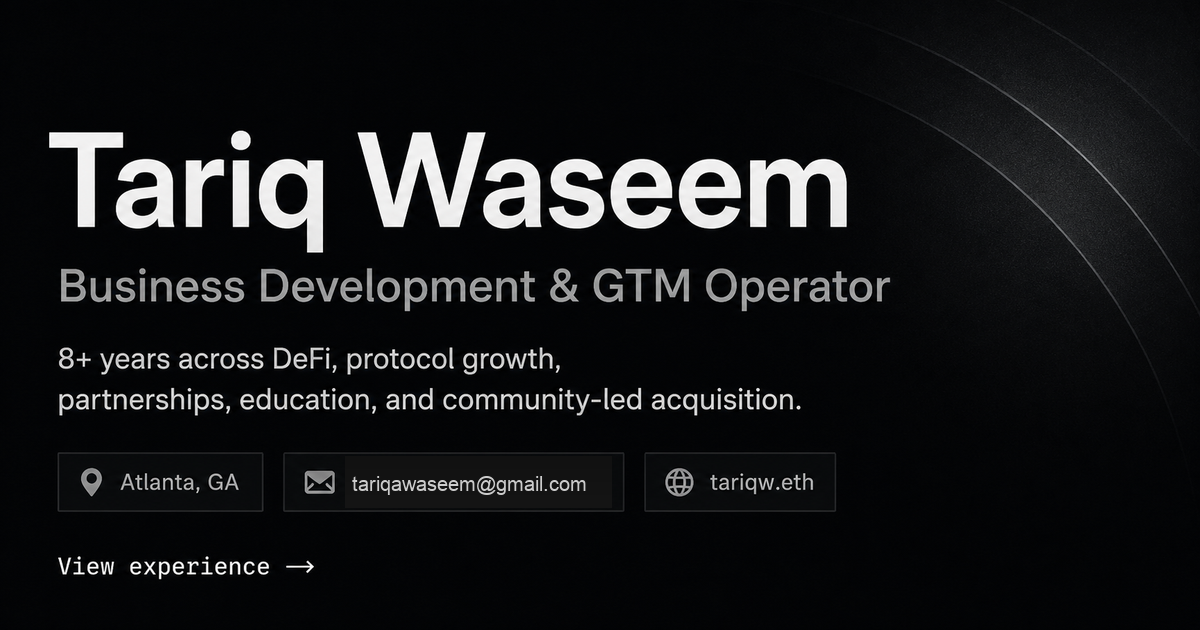
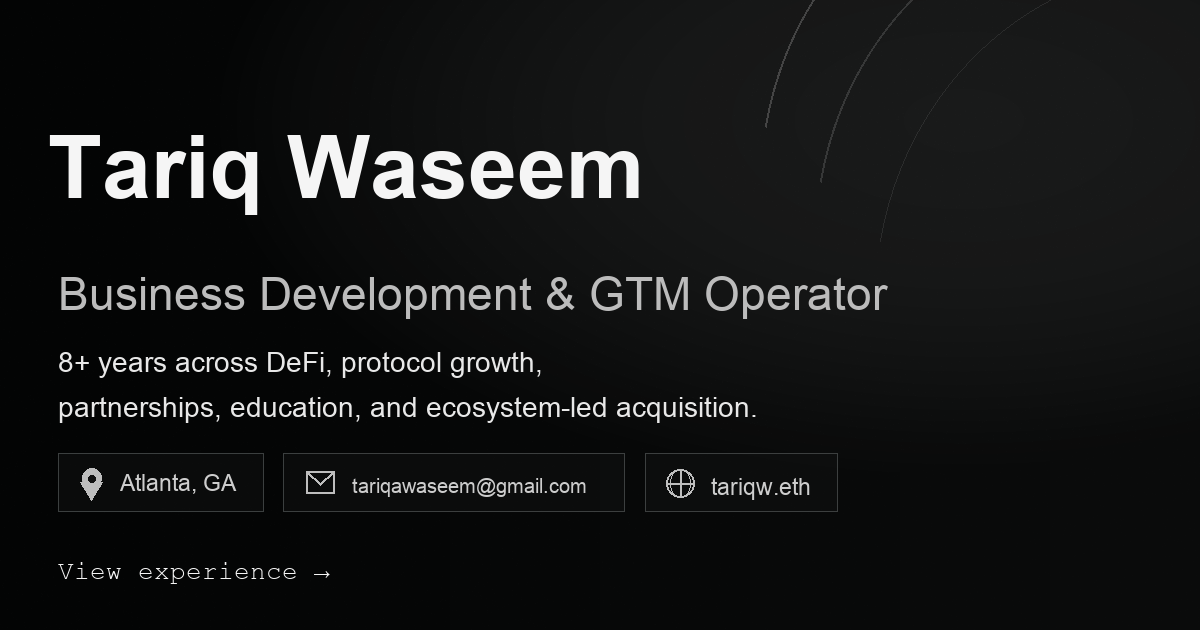
Refine ecosystem positioning copy

diff --git a/src/main.tsx b/src/main.tsx
@@ -25,7 +25,7 @@ const experience = [
     bullets: [
       'Run a personal digital asset fund focused on Bitcoin, financial NFT technology, memecoins, and liquid crypto opportunities across multiple market cycles.',
       'Generated $100K+ in realized and unrealized gains using my own capital over nine years of active research, allocation, and risk management.',
-      'Built an investing track record around early narrative discovery, onchain behavior, liquidity cycles, and community-led asset formation.',
+      'Built an investing track record around early narrative discovery, onchain behavior, liquidity cycles, and ecosystem-led asset formation.',
     ],
   },
   {
@@ -36,7 +36,7 @@ const experience = [
     bullets: [
       'Advise on GTM, token access design, and product positioning for a Base-native signal-to-position platform spanning market discovery, x402 analysis, and trading workflows.',
       'Built operating systems for liquidity strategy, including Hydrex vote-incentive reporting, weekly pool health dashboards, Bankr/Doppler fee tracking, and sustainable incentive planning.',
-      'Created holder and community intelligence workflows that reconstruct public CAPACITR balances, enrich wallets with social/contact signals, and support respectful outreach around liquidity and app adoption.',
+      'Created holder and ecosystem intelligence workflows that reconstruct public CAPACITR balances, enrich wallets with social/contact signals, and support respectful outreach around liquidity and app adoption.',
       'Developed content and launch execution infrastructure across Airtable, Excalidraw, reports, alpha feedback loops, roadmap posts, token updates, and investor-facing traction narratives.',
     ],
   },
@@ -56,35 +56,35 @@ const experience = [
   },
   {
     company: 'SCRIB3',
-    role: 'Lead Community Manager',
+    role: 'Senior Community Manager',
     location: 'Atlanta, GA',
     dates: 'Nov 2025 – Present',
     bullets: [
-      'Managed a team of 5 community associates operating across 3 time zones for highly technical DeFi protocols.',
-      'Created and ran the agency\'s first-of-its-kind community service offering.',
-      'Handled new client onboarding calls, managed client relationships, and led community audits.',
+      'Managed a team of 5 ecosystem associates operating across 3 time zones for highly technical DeFi protocols.',
+      'Created and ran the agency\'s first-of-its-kind ecosystem operations service offering.',
+      'Handled new client onboarding calls, managed client relationships, and led ecosystem audits.',
       'Supported clients including ReadyGG, Citrea, Spectral AI, Possum Finance, and Siren Protocol.',
     ],
   },
   {
     company: 'Revest Finance',
-    role: 'Community Manager / Business Development',
+    role: 'Head of Ecosystem / Business Development',
     location: 'Atlanta, GA',
     dates: 'Jan 2023 – Sept 2023',
     bullets: [
-      'Owned community and investor education across Revest and Resonate products.',
+      'Owned ecosystem and investor education across Revest and Resonate products.',
       'Expanded ecosystem visibility in collaboration with Frax Finance and GMX.',
       'Translated vaults, yield, and structured-finance concepts into clear user and partner messaging.',
     ],
   },
   {
     company: 'Atlanta Blockchain Center',
-    role: 'Co-founder & Chief Community Officer',
+    role: 'Co-founder & Chief Operating Officer',
     location: 'Atlanta, GA',
     dates: 'May 2022 – Oct 2022',
     bullets: [
       'Incubated 2 startups and helped them raise a combined $1M in pre-seed capital across AI & Infrastructure sectors.',
-      'Managed socials, community, support, events, coworking operations, and business development.',
+      'Managed socials, ecosystem operations, support, events, coworking operations, and business development.',
       'Cultivated relationships with local teams at BitPay, Dapper Labs, CleanSpark, Coinbase Ventures, and Ledgible.',
     ],
   },
@@ -101,7 +101,7 @@ const skillGroups = [
   },
   {
     title: 'Marketing',
-    items: ['Brand positioning', 'Campaign strategy', 'Launch copy', 'Social growth', 'Product education', 'Community acquisition', 'Field marketing'],
+    items: ['Brand positioning', 'Campaign strategy', 'Launch copy', 'Social growth', 'Product education', 'Ecosystem acquisition', 'Field marketing'],
   },
   {
     title: 'Tools',
@@ -115,7 +115,7 @@ const education = [
   'Atlanta Inno 25 Under 25 — Atlanta Business Chronicle | 2022',
 ]
 
-const capabilities = ['GTM strategy', 'Protocol growth', 'Account research', 'Community acquisition', 'DeFi credit', 'Visual storytelling']
+const capabilities = ['GTM strategy', 'Protocol growth', 'Account research', 'Ecosystem acquisition', 'DeFi credit', 'Visual storytelling']
 
 const interestTiles = [
   {
@@ -290,10 +290,10 @@ function App() {
               Protocol<span className="dot green">.</span><br />
               Growth<span className="dot amber">.</span><br />
               Markets<span className="dot rust">.</span><br />
-              Community<span className="dot cyan">.</span>
+              Ecosystem<span className="dot cyan">.</span>
             </h1>
             <p className="hero-subcopy">
-              Business Development and GTM operator with 8+ years across DeFi, protocol growth, partnerships, education, and community-led acquisition.
+              Business Development and GTM operator with 8+ years across DeFi, protocol growth, partnerships, education, and ecosystem-led acquisition.
             </p>
             <div className="contact-ribbon" aria-label="Contact details">
               {contact.map((item) => <span key={item}>{item}</span>)}
@@ -533,7 +533,7 @@ function App() {
         <section className="logo-section">
           <p className="eyebrow">[ TEAMS COLLABORATED WITH ]</p>
           <div className="logo-section-intro">
-            <h2>Protocol, media, infrastructure, and market teams I’ve collaborated with in cross-functional growth, community, BD, marketing, and ecosystem roles.</h2>
+            <h2>Protocol, media, infrastructure, and market teams I’ve collaborated with in cross-functional growth, ecosystem development, BD, marketing, and partner-facing roles.</h2>
           </div>
           <div className="logo-marquee" aria-label="Teams collaborated with carousel">
             <div className="logo-track">

diff --git a/FUTURE_FEATURES.md b/FUTURE_FEATURES.md
@@ -17,11 +17,11 @@ Add an interactive hover state to each dot in the synthetic value timeline in th
 | Period | Market label | Tooltip description draft |
 | --- | --- | --- |
 | 2017 | Bitcoin $20K | Began actively studying Bitcoin, digital assets, market cycles, and the early crypto investment landscape as BTC entered mainstream attention. |
-| 2018 | ICO boom | Followed token launches, community-led fundraising, whitepaper-driven narratives, and the early shift from speculation toward usable networks. |
+| 2018 | ICO boom | Followed token launches, ecosystem-led fundraising, whitepaper-driven narratives, and the early shift from speculation toward usable networks. |
 | 2019 | Builder winter | Continued learning through the bear market, tracking infrastructure, wallets, exchanges, and the teams still building after hype cooled off. |
 | 2020 | DeFi Summer | Studied DeFi primitives, liquidity mining, vaults, AMMs, yield markets, and the first wave of protocol-native growth loops. |
-| 2021 | NFT mania | Built community and market intuition around NFTs, creator economies, social coordination, and retail onboarding into web3. |
-| 2022–2025 | Trenches | Worked across community, GTM, protocol growth, BD, DeFi credit, partner education, and ecosystem relationships during difficult market conditions. |
+| 2021 | NFT mania | Built ecosystem and market intuition around NFTs, creator economies, social coordination, and retail onboarding into web3. |
+| 2022–2025 | Trenches | Worked across ecosystem operations, GTM, protocol growth, BD, DeFi credit, partner education, and ecosystem relationships during difficult market conditions. |
 | 2026 | Loading… | Current chapter: CAPACITR, liquidity strategy, Hydrex/Aerodrome-style incentive design, AI-assisted workflows, and xyexle.capital fund transparency. |
 
 ### Implementation notes
